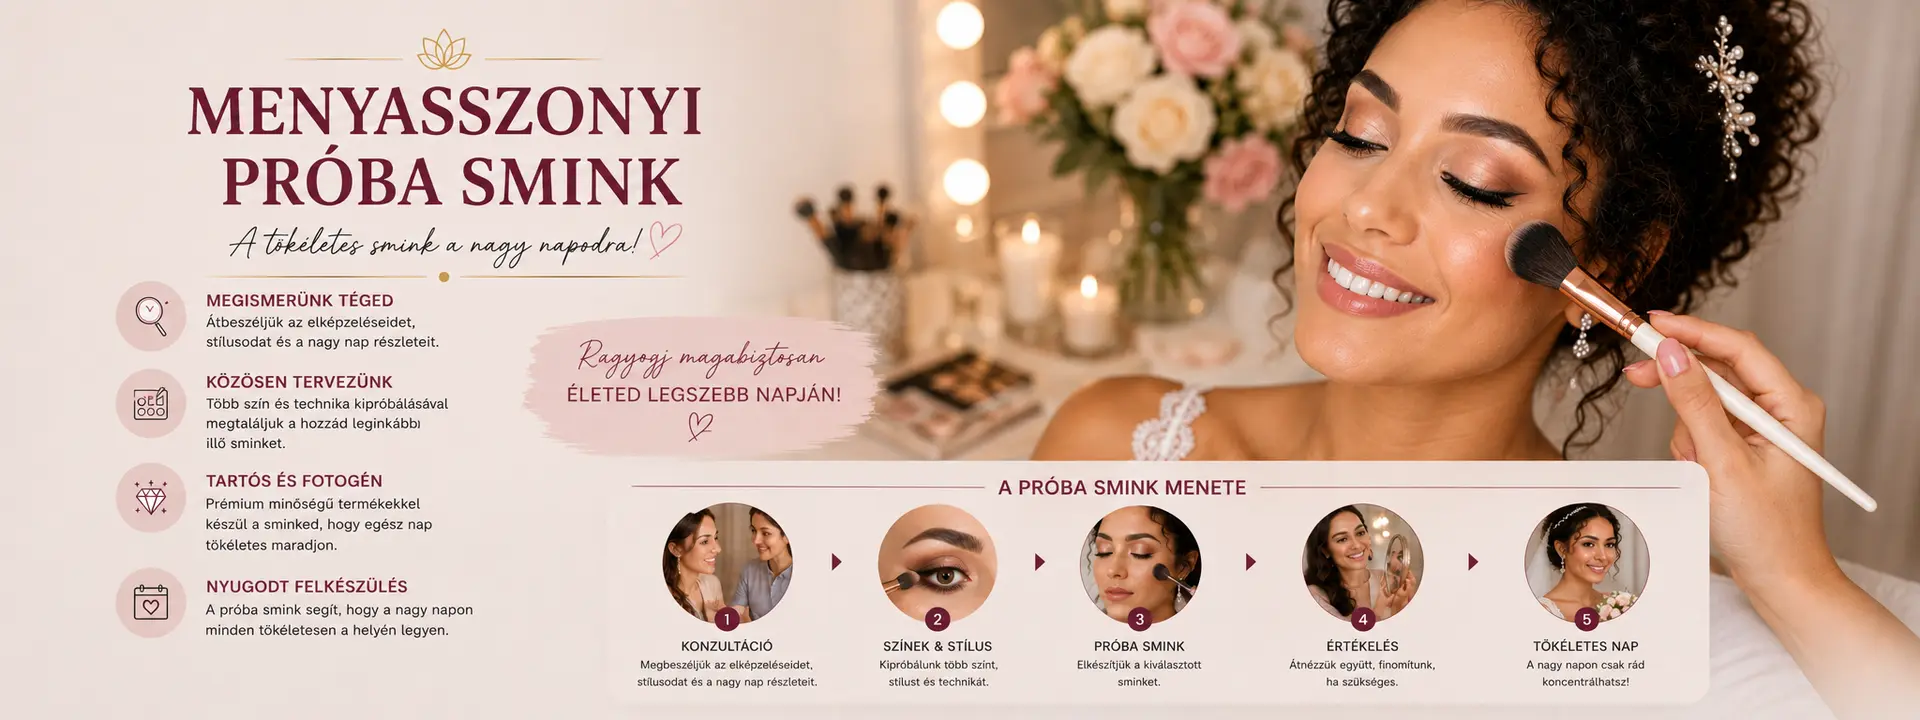
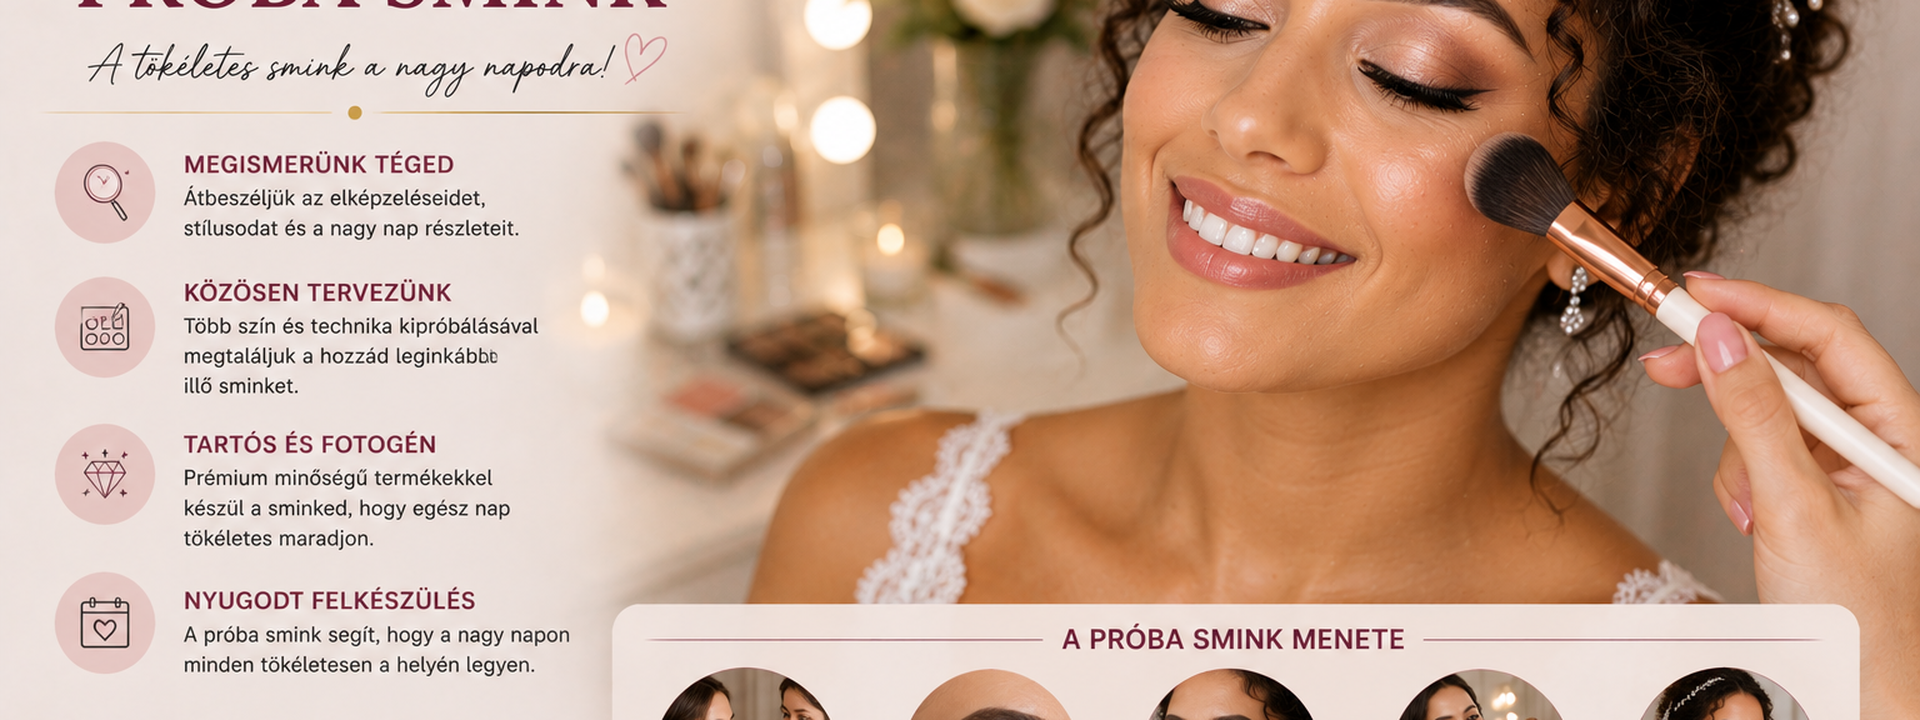
Smink alkategoria kepek frissitese: Smink, Menyasszonyi probasmink, Menyasszonyi smink

diff --git a/src/lib/site-data.ts b/src/lib/site-data.ts
@@ -265,7 +265,7 @@ export const categories: Category[] = [
         price: "35 000 Ft",
         description:
           "Az esküvő napjára készített, az arcvonásokhoz, ruhához és az esküvő stílusához igazított professzionális smink.",
-        image: "/images/gallery-makeup.jpg",
+        image: "/images/gallery-menyasszonyi-smink.png",
       },
     ],
   },
